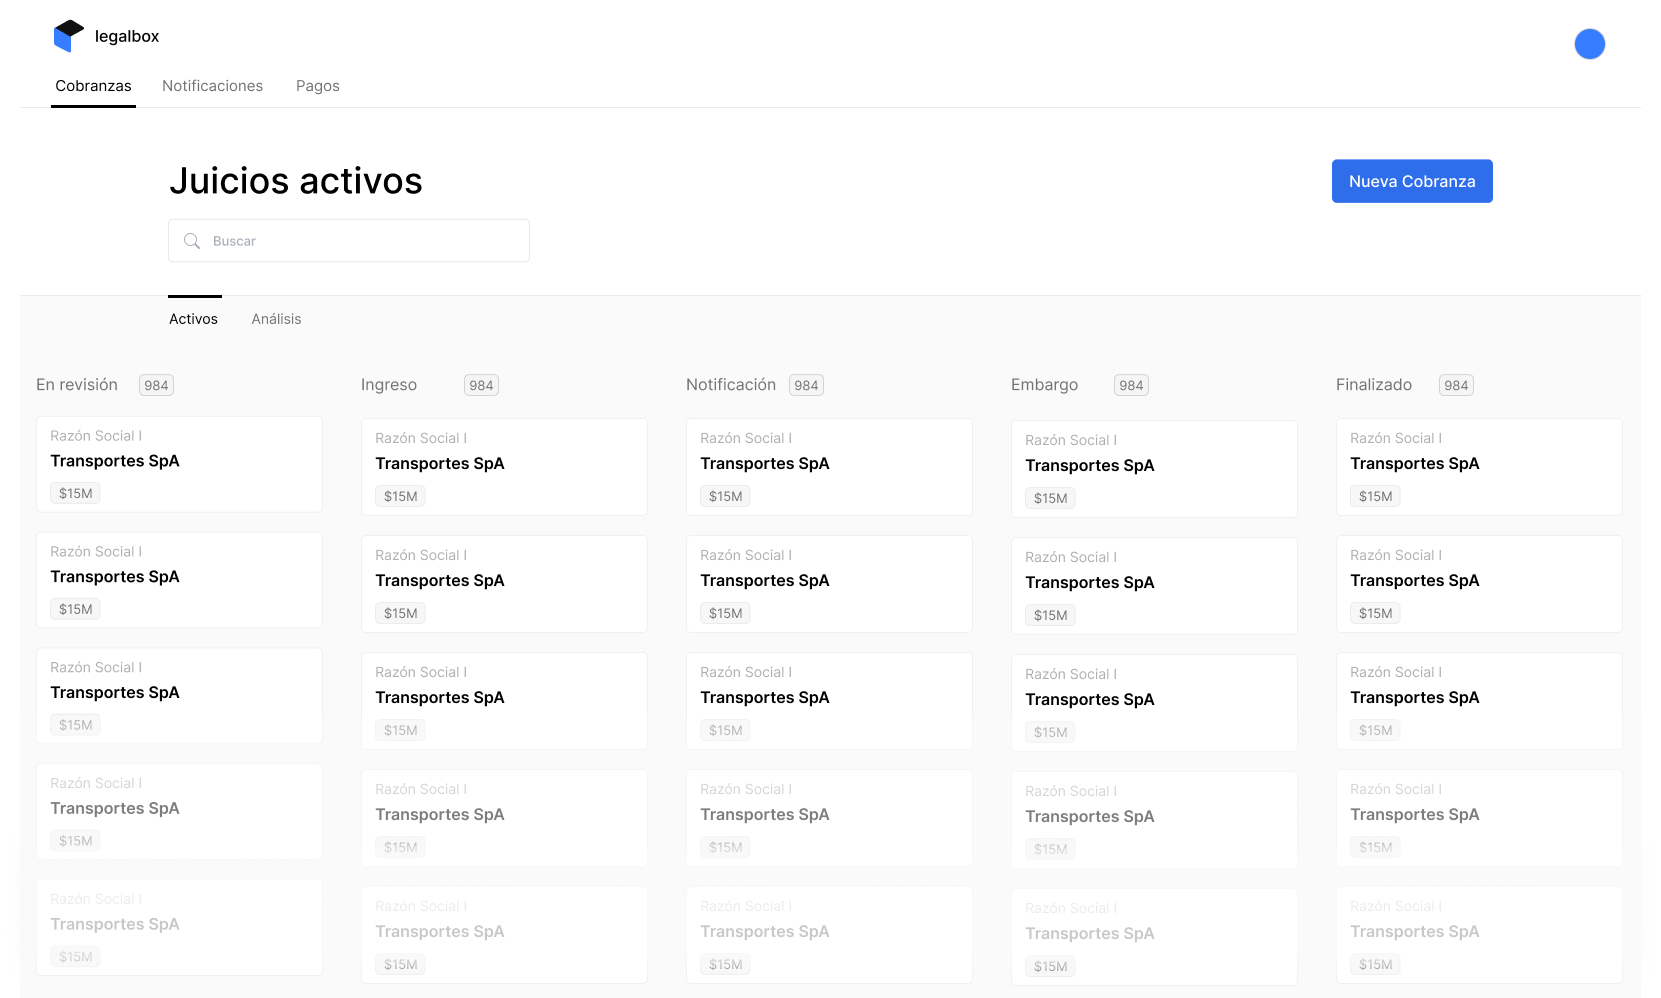
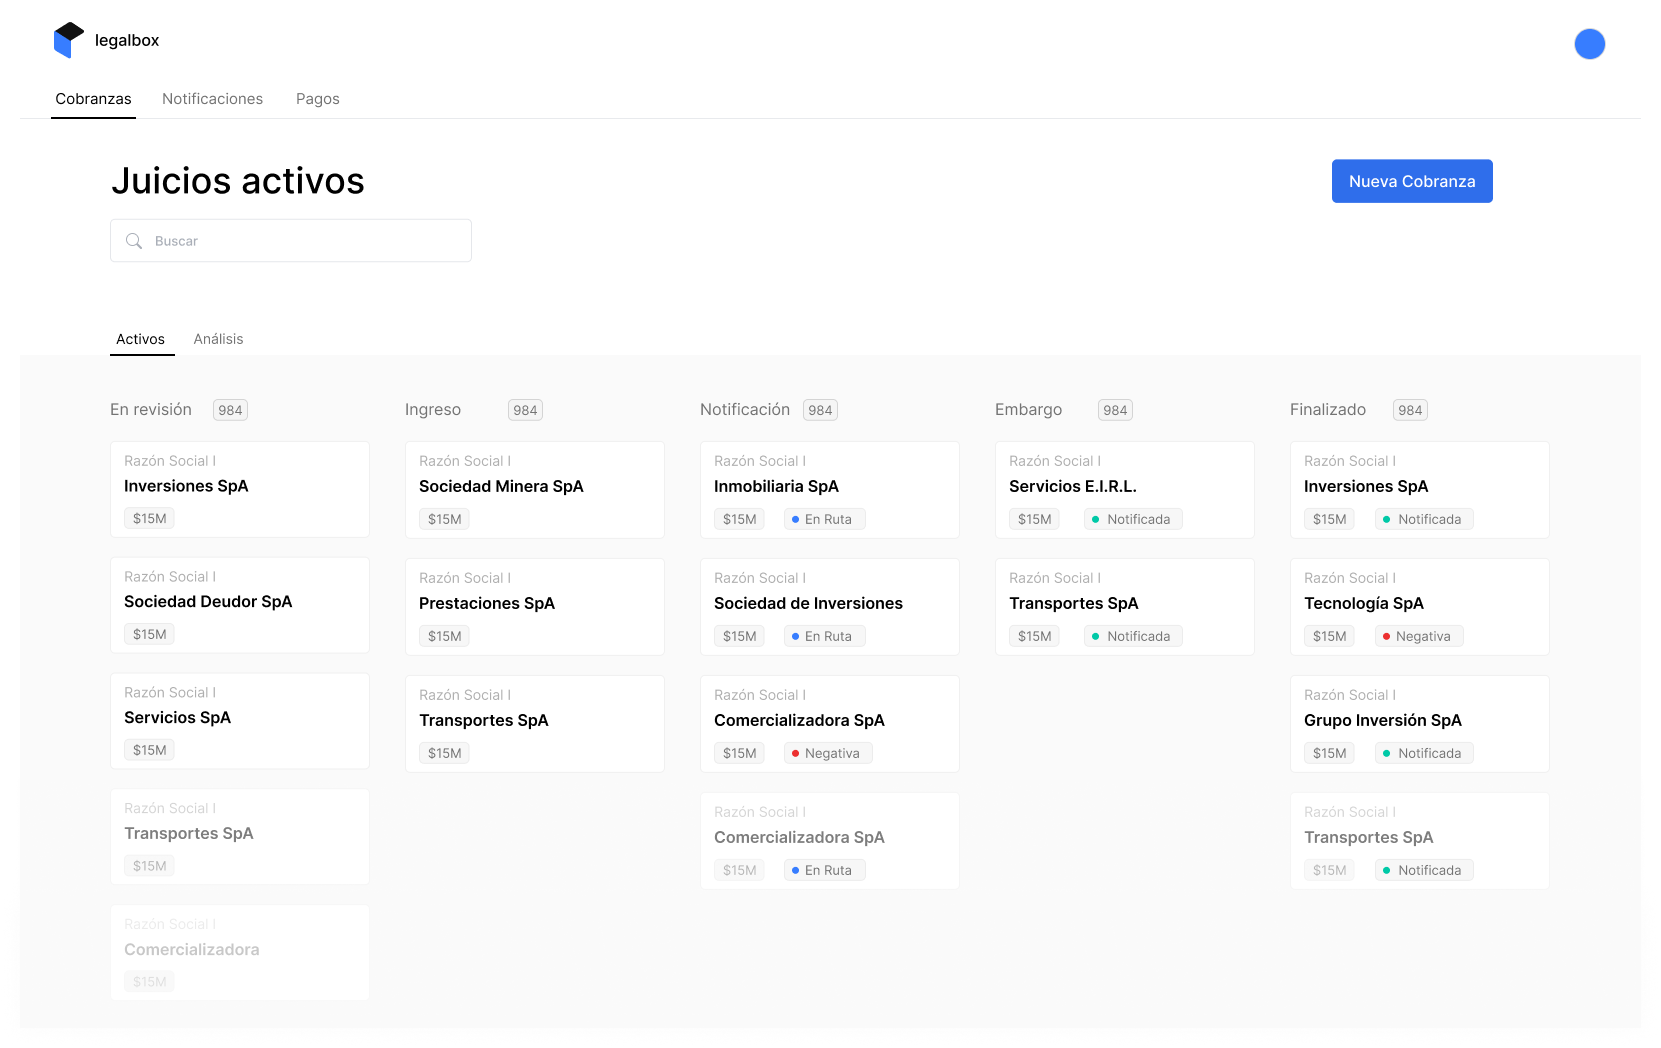
Kanban

diff --git a/nuevo-index.html b/nuevo-index.html
@@ -136,7 +136,7 @@
       <div class="w-lg-65 text-center mx-lg-auto">
         <div class="mb-5">
           <h1 class="display-4 mb-3">Convierte deudas en dinero recuperado</h1>
-          <p class="lead">Demanda y cobra a clientes morosos de manera centralizada, sin trámites y con avances en tiempo real.</p>
+          <p class="lead">Centraliza los juicios de cobranza y maximiza el rendimiento con total transparencia.</p>
         </div>
         <div class="justify-content-sm-center align-items-sm-center gap-3">
           <a class="btn btn-outline-primary btn-transition" href="#cobranza-judicial"><strong> Cobranza judicial</strong></a>
@@ -274,47 +274,42 @@
 
   <div class="border-top" id="rendimiento">   
     <div class="position-relative">
-      <div class="container content-space-2 content-space-lg-2 position-relative zi-2">
+      <div class="container content-space-t-2 content-space-t-lg-2 position-relative zi-2">
         <div class="w-md-75 w-lg-50 text-center mx-md-auto mb-9">
           <div class="mb-5">
             <span class="icon icon-lg step-icon-soft-primary icon-circle mb-5 text-primary">
               <svg xmlns="http://www.w3.org/2000/svg" height="1.5em" viewBox="0 0 640 512"><path d="M384 32H512c17.7 0 32 14.3 32 32s-14.3 32-32 32H398.4c-5.2 25.8-22.9 47.1-46.4 57.3V448H512c17.7 0 32 14.3 32 32s-14.3 32-32 32H320 128c-17.7 0-32-14.3-32-32s14.3-32 32-32H288V153.3c-23.5-10.3-41.2-31.6-46.4-57.3H128c-17.7 0-32-14.3-32-32s14.3-32 32-32H256c14.6-19.4 37.8-32 64-32s49.4 12.6 64 32zm55.6 288H584.4L512 195.8 439.6 320zM512 416c-62.9 0-115.2-34-126-78.9c-2.6-11 1-22.3 6.7-32.1l95.2-163.2c5-8.6 14.2-13.8 24.1-13.8s19.1 5.3 24.1 13.8l95.2 163.2c5.7 9.8 9.3 21.1 6.7 32.1C627.2 382 574.9 416 512 416zM126.8 195.8L54.4 320H199.3L126.8 195.8zM.9 337.1c-2.6-11 1-22.3 6.7-32.1l95.2-163.2c5-8.6 14.2-13.8 24.1-13.8s19.1 5.3 24.1 13.8l95.2 163.2c5.7 9.8 9.3 21.1 6.7 32.1C242 382 189.7 416 126.8 416S11.7 382 .9 337.1z"/></svg>
             </span>
            
-            <h2>Infórmate online del rendimiento y los avances de cada juicio</h1>
+            <h2>Rendimiento transparente con seguimiento en tiempo real</h1>
             <p>Centraliza la cobranza judicial y entérate de todas las novedades en tiempo real. Total transparencia del avance de cada juicio.</p>
+          </div>
+
+          <div class="text-center mb-10">
+            <!-- List Checked -->
+            <ul class="list-inline list-checked list-checked-primary">
+              <li class="list-inline-item list-checked-item">Avance de juicios</li>
+              <li class="list-inline-item list-checked-item">Notificaciones</li>
+              <li class="list-inline-item list-checked-item">Seguimiento de pagos</li>
+            </ul>
+            <!-- End List Checked -->
           </div>
 
         </div>
 
-        <!-- Devices -->
-        <div class="devices">
-
-          <!-- Browser Device -->
-          <figure class="device-browser">
-            <div class="device-browser-header">
-              <div class="device-browser-header-btn-list">
-                <span class="device-browser-header-btn-list-btn"></span>
-                <span class="device-browser-header-btn-list-btn"></span>
-                <span class="device-browser-header-btn-list-btn"></span>
-              </div>
-              <div class="device-browser-header-browser-bar">legalbox.cl</div>
-            </div>
+          <figure class="device-browser device-browser-lg">
 
             <div class="device-browser-frame">
               <img class="device-browser-img" src="./kanban.png" alt="Image Description">
             </div>
           </figure>
-          <!-- End Browser Device -->
-        </div>
-        <!-- End Devices -->
 
       </div>
 
     </div>
   </div>
 
-  <div class="container content-space-2">
+  <div class="container content-space-b-2">
     <div class="text-center py-6">
       <div class="mb-5">
         <h2 class="display-6">Comienza y cobra en línea</h2>
